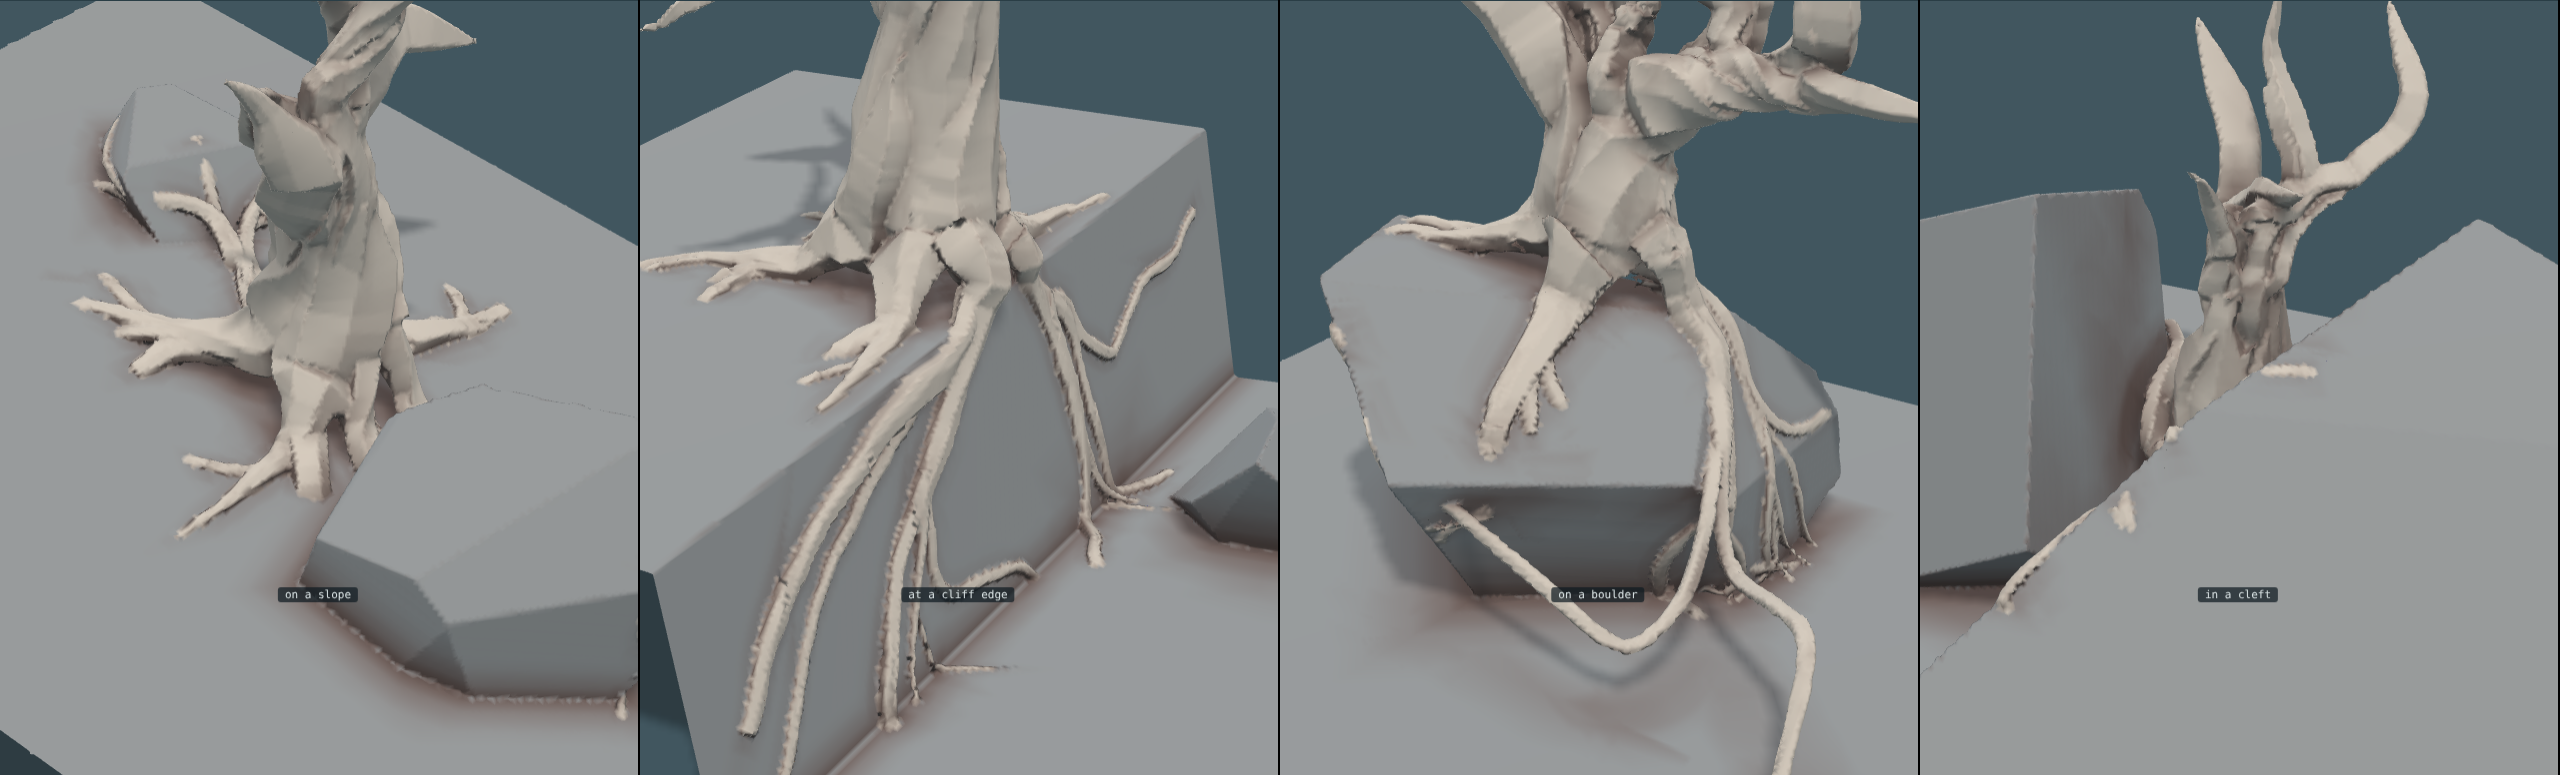
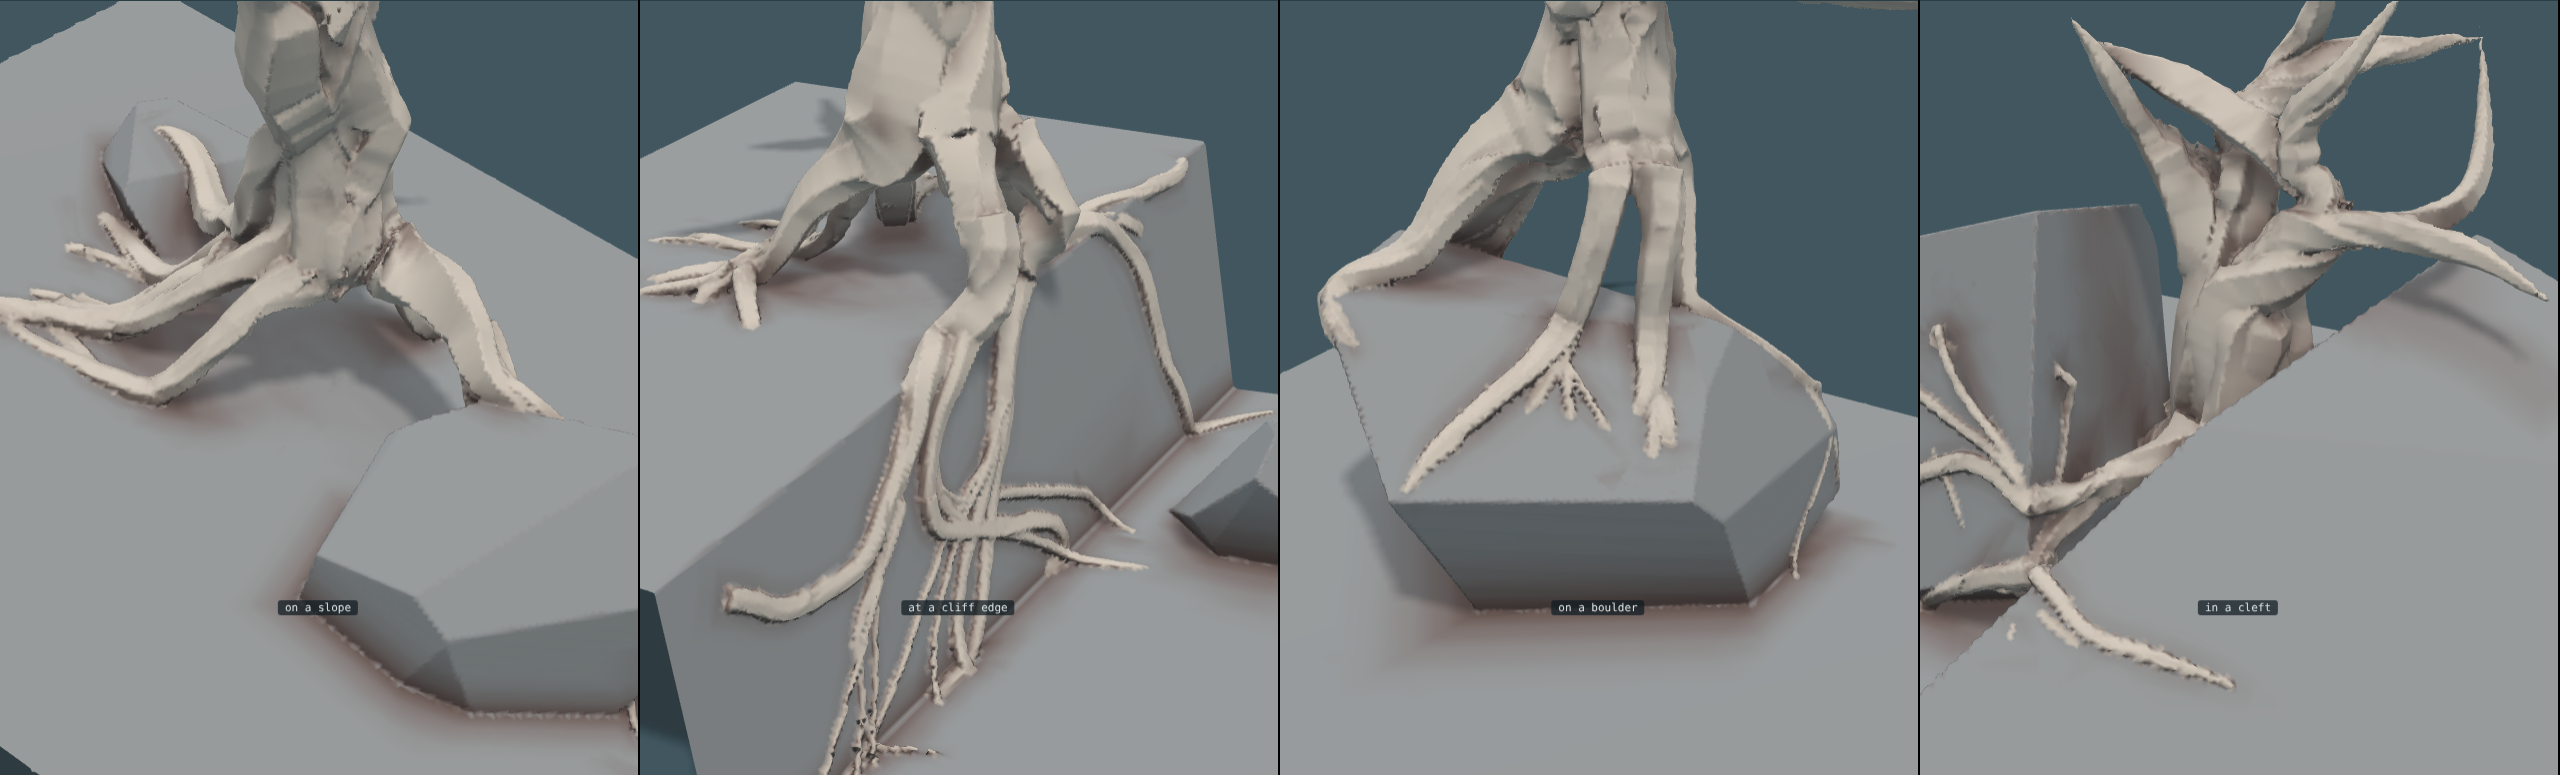
The foot stands high and the roots come down to the ground in a few bunches, with legs of unequal weight
Claude-Session: https://claude.ai/code/session_0192rgp75jGkttZXf7hEakip

diff --git a/trees.js b/trees.js
@@ -30,15 +30,16 @@
   function frames(P) { let N = null; return P.map((p, i) => { const T = unit([0, 1, 2].map((k) => P[Math.min(P.length - 1, i + 1)][k] - P[Math.max(0, i - 1)][k])); N = unit((N || [1, 0, 0.2]).map((v, k, A) => v - T[k] * dot(A, T))); return [T, N, cross(T, N)]; }); }
 
   function grow(recipe) {
-    const P = Object.assign({ strands: 8, fill: 0.75, uneven: 0.5, twist: 0.5, taut: 0.3, stiff: 0.05, hug: 0.15, bind: 0.004, roots: 0.6, wind: 1.1, mixed: false, lmax: 0, set: 0, swell: 1, feet: 0, lap: 0, ground: null, down: 0.6, crease: 0.5, snake: 1, air: 0.18, reach: 0.6, forks: 1, dive: 0.12, grip: 0.62, collar: 1.6, flare: 0.07, waste: 0.25, clear: 1, settle: 0, giving: 0.75, passes: 1500, ds: 0.035, seed: 1, trunk: [[0, 0.14, 0, 0.27], [0, 1.6, 0, 0.1]], limbs: [], orb: null }, recipe);
+    const P = Object.assign({ strands: 8, fill: 0.75, uneven: 0.5, twist: 0.5, taut: 0.3, stiff: 0.05, hug: 0.15, bind: 0.004, roots: 0.6, wind: 1.1, mixed: false, lmax: 0, set: 0, swell: 1, feet: 0, lap: 0, ground: null, down: 0.6, crease: 0.5, snake: 1, air: 0.18, reach: 0.6, forks: 1, dive: 0.12, slant: 0.75, clumps: 3, cling: 0.88, grip: 0.62, collar: 1.6, flare: 0.07, waste: 0.25, clear: 1, settle: 0, giving: 0.75, passes: 1500, ds: 0.035, seed: 1, trunk: [[0, 0.14, 0, 0.27], [0, 1.6, 0, 0.1]], limbs: [], orb: null }, recipe);
     // The ground, if the tree is given one: any function of a place that is how far it is outside the ground (less than
     // nothing inside). Without one the ground is the level at height 0, as it always was. (A grown tree is always given one, level if nothing else, so that its roots are walked.)
     const G = P.ground, gradG = G ? (x, y, z) => { const e = 0.008; return unit([G(x + e, y, z) - G(x - e, y, z), G(x, y + e, z) - G(x, y - e, z), G(x, y, z + e) - G(x, y, z - e)]); } : null, rootPts = [];
     const r = rng(P.seed), n = P.strands, ds = P.ds, trunk = line(P.trunk, ds), nT = trunk.length, R0 = trunk[0][3], rho0 = R0 * Math.sqrt(P.fill / n), turn = (i) => P.twist * TAU * i / nT;
     // A root on ground. It is not laid, it is walked: from where it starts it goes out a step at a time over the
     // surface, and what it does on the way is the ground's doing as much as its own.
-    //   It comes down to the ground at once, within `dive` of where it starts (a short real distance, not a share of
-    //   its length: paced by its length a long root slides down a shallow ramp and holds the trunk up on legs), and
+    //   It comes down to the ground within `dive` of where it starts, and `slant` further for every bit the foot
+    //   stands above it, so a tree perched high comes down on a slope and not a cliff. (A real distance, not a
+    //   share of its length: paced by its length a long root slides down a shallow ramp.) And
     //   then lies in it: a little sunk, more in places and less in others, kept that height off the surface
     //   whatever the surface does. So it goes over
     //   an edge and down a face and never through a corner or clear of the ground.
@@ -65,7 +66,7 @@
       // `flare`, under half a trunk's width. (A long smooth cone from trunk to tip is a carrot, not a root.)
       const girth = (g, far) => rho0 * (collar ? P.grip * (1 + (P.collar - 1) * Math.pow(Math.max(0, 1 - far / P.flare), 1.6)) : 1) * (1 - P.waste * g) * (dives ? 1 : Math.pow(Math.min(1, (1 - g) / 0.22), 0.7) * 0.9 + 0.1);
       const room = (pr, own) => { if (Math.abs(pr[0]) > 0.97 || Math.abs(pr[2]) > 0.97) return 0; let near = 0.22; for (const q of rootPts) near = Math.min(near, H(pr[0] - q[0], pr[1] - q[1], pr[2] - q[2])); for (let e = 0; e < own; e++) near = Math.min(near, H(pr[0] - rx[e][0], pr[1] - rx[e][1], pr[2] - rx[e][2])); return near; };
-      for (let m = 1; m <= most && prog < len; m++) { const g = Math.min(1, prog / len), rad = girth(g, gone), nn = gradG(pos[0], pos[1], pos[2]), hug = rad * (0.4 + 0.22 * Math.sin(wob + TAU * gone / wl)), want = c0 + (hug - c0) * sstep(0, P.dive, gone) - (dives ? 0.3 * sstep(0.72, 1, g) : 0);
+      for (let m = 1; m <= most && prog < len; m++) { const g = Math.min(1, prog / len), rad = girth(g, gone), nn = gradG(pos[0], pos[1], pos[2]), hug = rad * (0.4 + 0.22 * Math.sin(wob + TAU * gone / wl)), want = c0 + (hug - c0) * sstep(0, P.dive + P.slant * Math.max(0, c0), gone) - (dives ? 0.3 * sstep(0.72, 1, g) : 0);
         let tt = h.map((v, k) => v - nn[k] * dot(h, nn)); const dn = UP.map((v, k) => -(v - nn[k] * nn[1])), dl = H(dn[0], dn[1], dn[2]); if (H(tt[0], tt[1], tt[2]) < 0.2) tt = dl > 1e-6 ? dn : cross(nn, [1, 0, 0]); tt = unit(tt);
         curl = Math.max(-kmax, Math.min(kmax, curl * 0.9 + P.snake * 0.34 * kmax * (2 * r() - 1))); { const sd = cross(nn, tt); tt = unit(tt.map((v, k) => v * Math.cos(curl) + sd[k] * Math.sin(curl))); }
         const side = cross(nn, tt), out = unit([pos[0] - trunk[0][0], 0, pos[2] - trunk[0][2]]); let best = null;   // (out: away from the foot. A root goes somewhere; it does not come back under the tree.)
@@ -93,7 +94,8 @@
         if (flew) continue;
         for (let it = 0; it < 3; it++) { const gn = gradG(nx[0], nx[1], nx[2]), gv = G(nx[0], nx[1], nx[2]); nx = nx.map((v, k) => v + gn[k] * (want - gv)); }
         if (Math.abs(nx[0]) > 0.92 || Math.abs(nx[2]) > 0.92) break;   // a root stays on the ground it was given
-        const steep = Math.abs(gradG(nx[0], nx[1], nx[2])[1]) < 0.6; prog += ds * (steep ? 0.3 : 1); gone += ds; pos = nx; rx.push(nx); rr.push(rad); }
+        // coming down counts little toward its length, as going down a face does: a root's length is the run it has once it is in the ground
+        const steep = Math.abs(gradG(nx[0], nx[1], nx[2])[1]) < 0.6, coming = G(nx[0], nx[1], nx[2]) > 3 * rad; prog += ds * (steep || coming ? 0.3 : 1); gone += H(nx[0] - pos[0], nx[1] - pos[1], nx[2] - pos[2]); pos = nx; rx.push(nx); rr.push(rad); }   // (gone is real distance: counted as ds while the step also drops, the descent comes out far steeper than `slant` asks)
       return { rx, rr }; } : null;
     // every strand has a place in the bundle's section, and a girth of its own (mixed: most thin, a few heavy)
     const S = Array.from({ length: n }, (_, j) => { const d = Math.sqrt((j + 0.5) / n), a = j * GA + 0.5 * (r() - 0.5); return { a: d * Math.cos(a), b: d * Math.sin(a), fat: P.mixed ? 0.35 + 1.9 * Math.pow(r(), 2.5) : 1 + P.uneven * (r() - 0.5), limb: -1, give: r() < P.giving ? 1 : 0.25 * r() }; });
@@ -126,6 +128,12 @@
     const place = (s, i) => { const g = group(s, i), k = g.map((q) => S.indexOf(q)).join(); let m = seen.get(k);
       if (!m) { const ca = g.reduce((v, q) => v + q.a, 0) / g.length, cb = g.reduce((v, q) => v + q.b, 0) / g.length; m = { ca, cb, ext: Math.max(1e-6, ...g.map((q) => H(q.a - ca, q.b - cb))) + 0.35 / Math.sqrt(g.length), n: g.length }; seen.set(k, m); }
       return [(s.a - m.ca) / m.ext, (s.b - m.cb) / m.ext, m.n]; };
+    // Roots do not leave evenly all round the foot, which from above is a starburst. They come away in a few
+    // bunches, as they do where the soil has washed out from under a tree: `clumps` ways out of the foot, and a
+    // root mostly takes the nearest (`cling`: how much of the way it is pulled to it).
+    const clump = []; { const rc = rng(P.seed + 404), nc = Math.max(1, P.clumps); const a0 = TAU * rc();
+      for (let i = 0; i < nc; i++) clump.push(a0 + TAU * (i + 0.5 * (rc() - 0.5)) / nc); }
+    const toClump = (a) => { let best = a, bd = 9; for (const c of clump) { let d = Math.abs(((c - a + PI) % TAU + TAU) % TAU - PI); if (d < bd) { bd = d; best = c; } } return a + (((best - a + PI) % TAU + TAU) % TAU - PI) * P.cling; };
     for (const s of S) {
       const path = s.limb >= 0 ? limbs[s.limb].path : trunk, fr = s.limb >= 0 ? limbs[s.limb].frames : tf, fi = s.limb >= 0 ? limbs[s.limb].fi : -1, own = path.length - 1 - Math.max(0, fi);
       const first = s === S.find((q) => q.limb === s.limb), u1 = r(), u2 = r(), u3 = r(), stub = s.limb >= 0 ? limbs[s.limb].L.stub : null; s.snapped = stub ? stub === 'fresh' : !first && u1 < 0.6;   // some strands snap short of the end, and keep their girth to the break
@@ -141,7 +149,7 @@
       // its root: the strand itself coming down from the foot of the trunk the way it faces there, heavy, and
       // most often going into the ground. A few stay on it and run out to a point.
       // (on ground nearly all roots go into it at their end; the old flat roots are left as they were)
-      const p0 = X[0], away = H(p0[0] - trunk[0][0], p0[2] - trunk[0][2]) > 1e-4 ? unit([p0[0] - trunk[0][0], 0, p0[2] - trunk[0][2]]) : [1, 0, 0], len = P.roots * (0.5 + 0.5 * r()), bend = 2.6 * (r() - 0.5), dives = r() < (G ? 0.9 : 0.75), rx = [], rr = [], rg = []; let q = p0, Kr = Math.max(6, Math.round(len / ds));
+      const p0 = X[0], a0 = toClump(Math.atan2(p0[2] - trunk[0][2], p0[0] - trunk[0][0])), away = G ? [Math.cos(a0), 0, Math.sin(a0)] : H(p0[0] - trunk[0][0], p0[2] - trunk[0][2]) > 1e-4 ? unit([p0[0] - trunk[0][0], 0, p0[2] - trunk[0][2]]) : [1, 0, 0], len = P.roots * (0.5 + 0.5 * r()), bend = 2.6 * (r() - 0.5), dives = r() < (G ? 0.9 : 0.75), rx = [], rr = [], rg = []; let q = p0, Kr = Math.max(6, Math.round(len / ds));
       if (!G) {
         for (let m = 1; m <= Kr; m++) { const g = m / Kr, t = bend * g * g, dir = [away[0] * Math.cos(t) - away[2] * Math.sin(t), 0, away[0] * Math.sin(t) + away[2] * Math.cos(t)], rad = rho[0] * (dives ? 0.5 + 0.5 * (1 - g) : 0.2 + 0.8 * Math.pow(1 - g, 0.8));
           q = [q[0] + dir[0] * ds, p0[1] + (rad * 0.6 - p0[1]) * sstep(0, 0.8, g) - (dives ? 0.35 * sstep(0.6, 1, g) : 0), q[2] + dir[2] * ds]; rx.push(q); rr.push(rad); rg.push(q); }
@@ -165,8 +173,11 @@
     // wood divides all the way up and at no one level, and there is as much of it at any level as there was: no
     // waist. A root does not end and a branch does not start. One divides into the other.
     if (P.feet && P.feet < n) {
-      const rd = rng(P.seed + 311), order = S.map((s, i) => i).sort((x, y) => Math.atan2(S[x].b, S[x].a) - Math.atan2(S[y].b, S[y].a)), per = n / P.feet, cuts = [];
-      for (let g = 0; g < P.feet; g++) { const mem = order.slice(Math.round(g * per), Math.round((g + 1) * per)); if (mem.length < 2) continue;
+      const rd = rng(P.seed + 311), order = S.map((s, i) => i).sort((x, y) => Math.atan2(S[x].b, S[x].a) - Math.atan2(S[y].b, S[y].a));
+      // the families are not of a size: cut the ring at uneven places, so the foot has a few heavy roots and some slight ones
+      const wt = Array.from({ length: P.feet }, () => 0.35 + 1.3 * rd()), tot = wt.reduce((a, b) => a + b, 0), edge = [0], cuts = []; let acc = 0;
+      for (const w of wt) { acc += w; edge.push(Math.round((acc / tot) * n)); }
+      for (let g = 0; g < P.feet; g++) { const mem = order.slice(edge[g], edge[g + 1]); if (mem.length < 2) continue;
         const lead = mem.reduce((v, i) => (H(S[i].a, S[i].b) > H(S[v].a, S[v].b) ? i : v), mem[0]), L = S[lead], endL = L.K - 1 - L.root, add = new Float64Array(L.K);
         for (const i of mem) { if (i === lead) continue; const B = S[i], endB = B.K - 1 - B.root; let dv = 0; while (dv < Math.min(endL, endB) && ownerAt(L.limb, dv + 1) === ownerAt(B.limb, dv + 1)) dv++;
           const low = 2, top = Math.min(dv - 3, endL - 8, endB - 6); if (top <= low) continue; const m = low + Math.floor((top - low) * rd());
@@ -182,7 +193,8 @@
     // many fine ones, each traceable back to a heavy one: the way the tree divides above the ground, upside down.
     if (G && P.forks) { const part = (pi, depth) => { const par = S[pi], n = depth > 1 ? (r() < 0.3 * P.forks ? 1 : 0) : depth ? 1 + (r() < 0.3 * P.forks ? 1 : 0) : 1 + (r() < 0.75 * P.forks ? 1 : 0); let u = 0.1 + 0.18 * r();
         for (let e = 0; e < n; e++, u += 0.2 + 0.18 * r()) { if (u > 0.75) break; const k = Math.round((1 - u) * par.root); if (k < 4 || k > par.root - 2) continue;
-          const pos = [par.X[k * 3], par.X[k * 3 + 1], par.X[k * 3 + 2]], d = unit([par.X[(k - 2) * 3] - pos[0], par.X[(k - 2) * 3 + 1] - pos[1], par.X[(k - 2) * 3 + 2] - pos[2]]), nn = gradG(pos[0], pos[1], pos[2]), sd = cross(nn, d), a = (r() < 0.5 ? -1 : 1) * (0.4 + 0.4 * r());
+          const pos = [par.X[k * 3], par.X[k * 3 + 1], par.X[k * 3 + 2]]; if (G(pos[0], pos[1], pos[2]) > 4 * par.rho[k]) continue;   // not while it is still coming down: a tree perched high would stand on a palisade of straws
+          const d = unit([par.X[(k - 2) * 3] - pos[0], par.X[(k - 2) * 3 + 1] - pos[1], par.X[(k - 2) * 3 + 2] - pos[2]]), nn = gradG(pos[0], pos[1], pos[2]), sd = cross(nn, d), a = (r() < 0.5 ? -1 : 1) * (0.4 + 0.4 * r());
           const dir = unit(d.map((v, c) => v * Math.cos(a) + sd[c] * Math.sin(a))), share = 0.34 + 0.24 * r(), rb = par.rho[k] * Math.sqrt(share);
           if (rb < 0.005) continue; const w = walk(pos, dir, rb, Math.max(0.2, k * ds * (0.3 + 0.3 * r())), r() < 0.9, 0); if (w.rx.length < 6) continue;   // (a part of a root runs a good deal shorter than what is left of the root it came off)
           for (let j = 0; j < k; j++) par.rho[j] *= 1 + (Math.sqrt(1 - share) - 1) * sstep(k, k - 4, j);
@@ -398,7 +410,7 @@
   // rule, and `share` is its main number (small: a leader with side shoots; a half: even forks and no leader).
   // Returns { strands, trunk, limbs } for grow(), and what it made (shoots, tips, deepest).
   function sprout(rule) {
-    const Q = Object.assign({ strands: 18, seed: 1, share: 0.35, every: 0.1, first: 0.25, spread: 1.3, up: 0.4, wander: 0.5, reach: 1.15, tall: 1.1, twig: 0.22, foot: 0.2, step: 0.08, kink: 0.7, bout: 0.16, set: 0.8, snap: 0, as: 'mixed', least: 2, most: 0.25, regrow: true, feet: 8, lap: 0.3, ground: null, site: [0, 0], roots: 0.55 }, rule), r = rng(Q.seed + 700), n = Q.strands, st = Q.step;
+    const Q = Object.assign({ strands: 18, seed: 1, share: 0.35, every: 0.1, first: 0.25, spread: 1.3, up: 0.4, wander: 0.5, reach: 1.15, tall: 1.1, twig: 0.22, foot: 0.2, step: 0.08, kink: 0.7, bout: 0.16, set: 0.8, snap: 0, as: 'mixed', least: 2, most: 0.25, regrow: true, feet: 8, lap: 0.3, ground: null, site: [0, 0], roots: 0.55, perch: 1.9 }, rule), r = rng(Q.seed + 700), n = Q.strands, st = Q.step;
     const length = (c) => Q.reach * (Q.twig + Math.sqrt(c / n)), Gq = Q.ground, inside = (p) => Math.abs(p[0]) < 0.9 && Math.abs(p[2]) < 0.9 && p[1] < 1.9 && (Gq ? Gq(p[0], p[1], p[2]) > 0.12 : p[1] > 0.3), laid = [];   // every point of every shoot so far
     const open = (p) => { let d = Gq ? Math.max(0, Gq(p[0], p[1], p[2])) * 1.2 : 9; for (const q of laid) d = Math.min(d, H(p[0] - q[0], p[1] - q[1], p[2] - q[2])); return d; };   // (open: far from every shoot, and from the ground and any rock)
     let shoots = 0, tips = 0, deepest = 0;
@@ -427,8 +439,8 @@
       tips++; return { path: pts, limbs: kids, total: gone };
     };
     // where it stands: on level ground at the middle, or at its `site` on the ground it is given, starting a little way out of the slope
-    const R0 = Q.foot; let p0 = [0, 0.6 * R0, 0], lean = [0, 0, 0];
-    if (Gq) { let y = 1.95; while (y > -0.05 && Gq(Q.site[0], y, Q.site[1]) > 0) y -= 0.01; const e = 0.01, gn = unit([Gq(Q.site[0] + e, y, Q.site[1]) - Gq(Q.site[0] - e, y, Q.site[1]), Gq(Q.site[0], y + e, Q.site[1]) - Gq(Q.site[0], y - e, Q.site[1]), Gq(Q.site[0], y, Q.site[1] + e) - Gq(Q.site[0], y, Q.site[1] - e)]); p0 = [Q.site[0], y + 0.6 * R0, Q.site[1]]; lean = [0.5 * gn[0], 0, 0.5 * gn[2]]; }
+    const R0 = Q.foot; let p0 = [0, Q.perch * R0, 0], lean = [0, 0, 0];
+    if (Gq) { let y = 1.95; while (y > -0.05 && Gq(Q.site[0], y, Q.site[1]) > 0) y -= 0.01; const e = 0.01, gn = unit([Gq(Q.site[0] + e, y, Q.site[1]) - Gq(Q.site[0] - e, y, Q.site[1]), Gq(Q.site[0], y + e, Q.site[1]) - Gq(Q.site[0], y - e, Q.site[1]), Gq(Q.site[0], y, Q.site[1] + e) - Gq(Q.site[0], y, Q.site[1] - e)]); p0 = [Q.site[0], y + Q.perch * R0, Q.site[1]]; lean = [0.5 * gn[0], 0, 0.5 * gn[2]]; }
     const d0 = unit([lean[0] + 0.25 * (r() - 0.5), 1, lean[2] + 0.25 * (r() - 0.5)]), top = shoot(p0, d0, n, Q.tall, 0, true);
     const tidy = (sh, par) => sh.limbs.map((k) => { const o = { at: Math.min(0.97, k.s / sh.total), count: k.count, path: k.path, from: k.from, dir: k.dir, s: k.s, host: sh, par, own: k, depth: par ? par.depth + 1 : 1 }; o.limbs = tidy(k, o); return o; });
     // Snapping. `snap` of the side shoots break off close to where they left: ones carrying at least `least` strands and

diff --git a/LOG.md b/LOG.md
@@ -3253,3 +3253,58 @@ Wrong, or not there:
 - Between forks a root is a smooth tube. The flat-faced pieces are there
   but at that girth they hardly show.
 - A root ends where its length runs out, not for any reason in the ground.
+
+## The foot stands high; roots come away in bunches
+
+Given: a bonsai rooted over a rock, and a tree on a bank the rain has cut
+away. Said: the clustering is wanted; and the floor of the tree has its
+weight too low. In a bonsai, and in a tree on eroded soil, the start of
+the tree is higher up, which makes it feel lighter and more alive — the
+soil it sprouted in has sagged away and the roots have followed it down.
+
+Taken as the rule: the foot is not where the ground is. The trunk begins
+`perch` of its own foot radius above the ground (1.9, where it was 0.6),
+and the roots run down to the ground from there. What holds the tree up
+is the descent, not a flat plate.
+
+Four things that took:
+- `perch` 1.9. The trunk's base now stands 0.38 above the ground on a
+  foot 0.4 across: about a trunk's width up, as in the bank photograph.
+- The descent lengthens with the height: `dive` plus `slant` (0.75) for
+  every bit the foot stands above the ground, so a perched tree comes
+  down on a slope (54 degrees) and not a cliff.
+- Roots leave in bunches, not evenly all round. `clumps` (3) ways out of
+  the foot, and a root is pulled `cling` (0.88) of the way to the nearest.
+- The families that own the roots are cut at uneven places round the
+  bundle, so the foot has a few heavy legs and some slight ones: girths
+  0.079 down to 0.039 on one tree, where they were all much of a size.
+
+Broke twice on the way, both the same kind of error — a length counted in
+the wrong units.
+- The descent came out at 73 degrees instead of the 45 asked for: a step
+  was counted as `ds` toward the distance walked when it also dropped, so
+  the walk thought it had gone less far than it had and forced the height
+  down harder. Counted as real distance now.
+- With the foot raised, the roots forked while still in the air and the
+  tree stood on a palisade of straws (32 of them). A root now does not
+  divide until it is down, and its descent counts little toward its
+  length, as going down a face already did. 8 legs, parting into 6 to 10
+  once they are in the ground.
+
+`sketch/page9.png`, `-foot`, `-from-above`; `sketch/page11.png`,
+`-other-side`, `-foot`. Withdrawn:
+`sketch/page9-foot-low-withdrawn.png`. Page 7 unchanged.
+
+      roots crossing a ring, at most   0.32 to 0.39 of the trunk
+
+What it does: on level ground the trunk stands on legs that arch down and
+spread, heavy on two or three sides. On the boulder it straddles the
+stone as the bonsai does.
+
+Wrong, or not there:
+- In the bank photograph the roots are flattened plates that are one mass
+  at the trunk and divide only lower down. Mine part at the flare and
+  stay parted: there is no skirt.
+- Nothing has sagged. The tree is perched because it is told to be, not
+  because anything was taken from under it.
+- The legs still arch in much the same way as each other.
